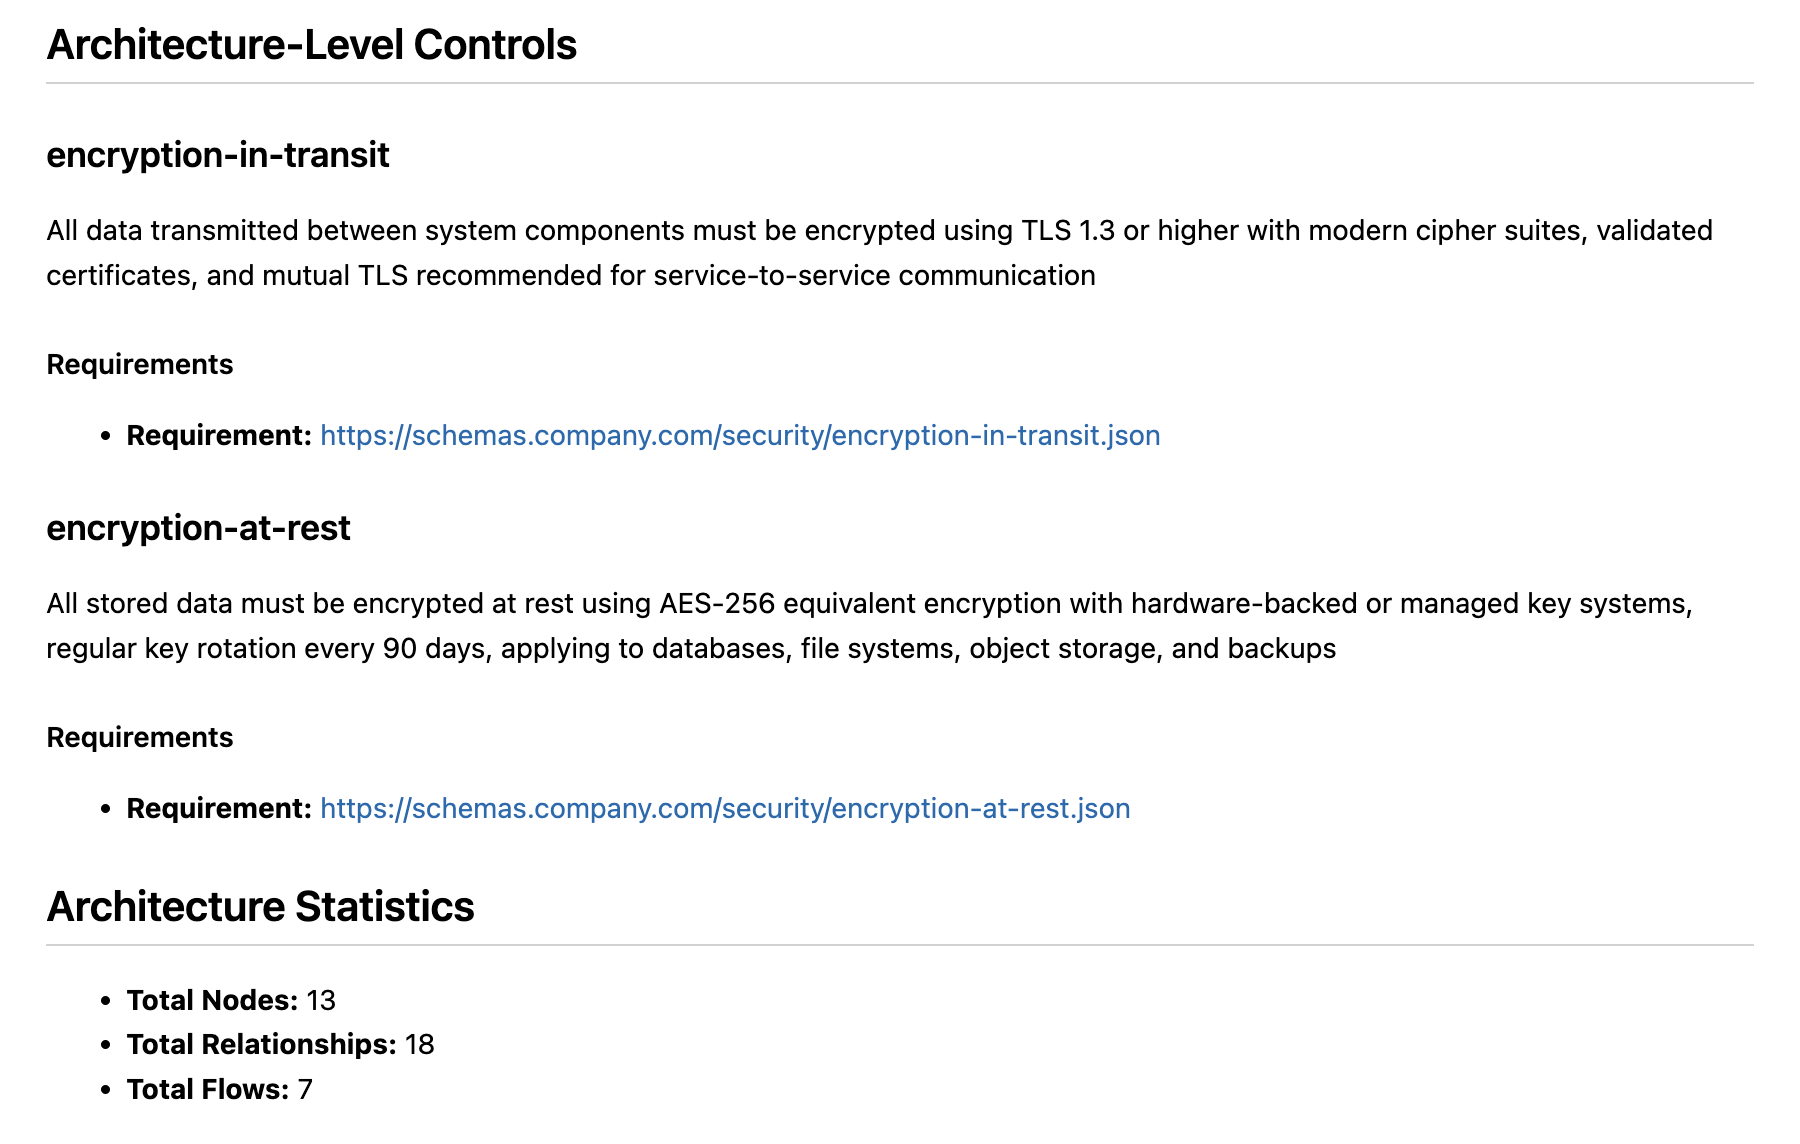
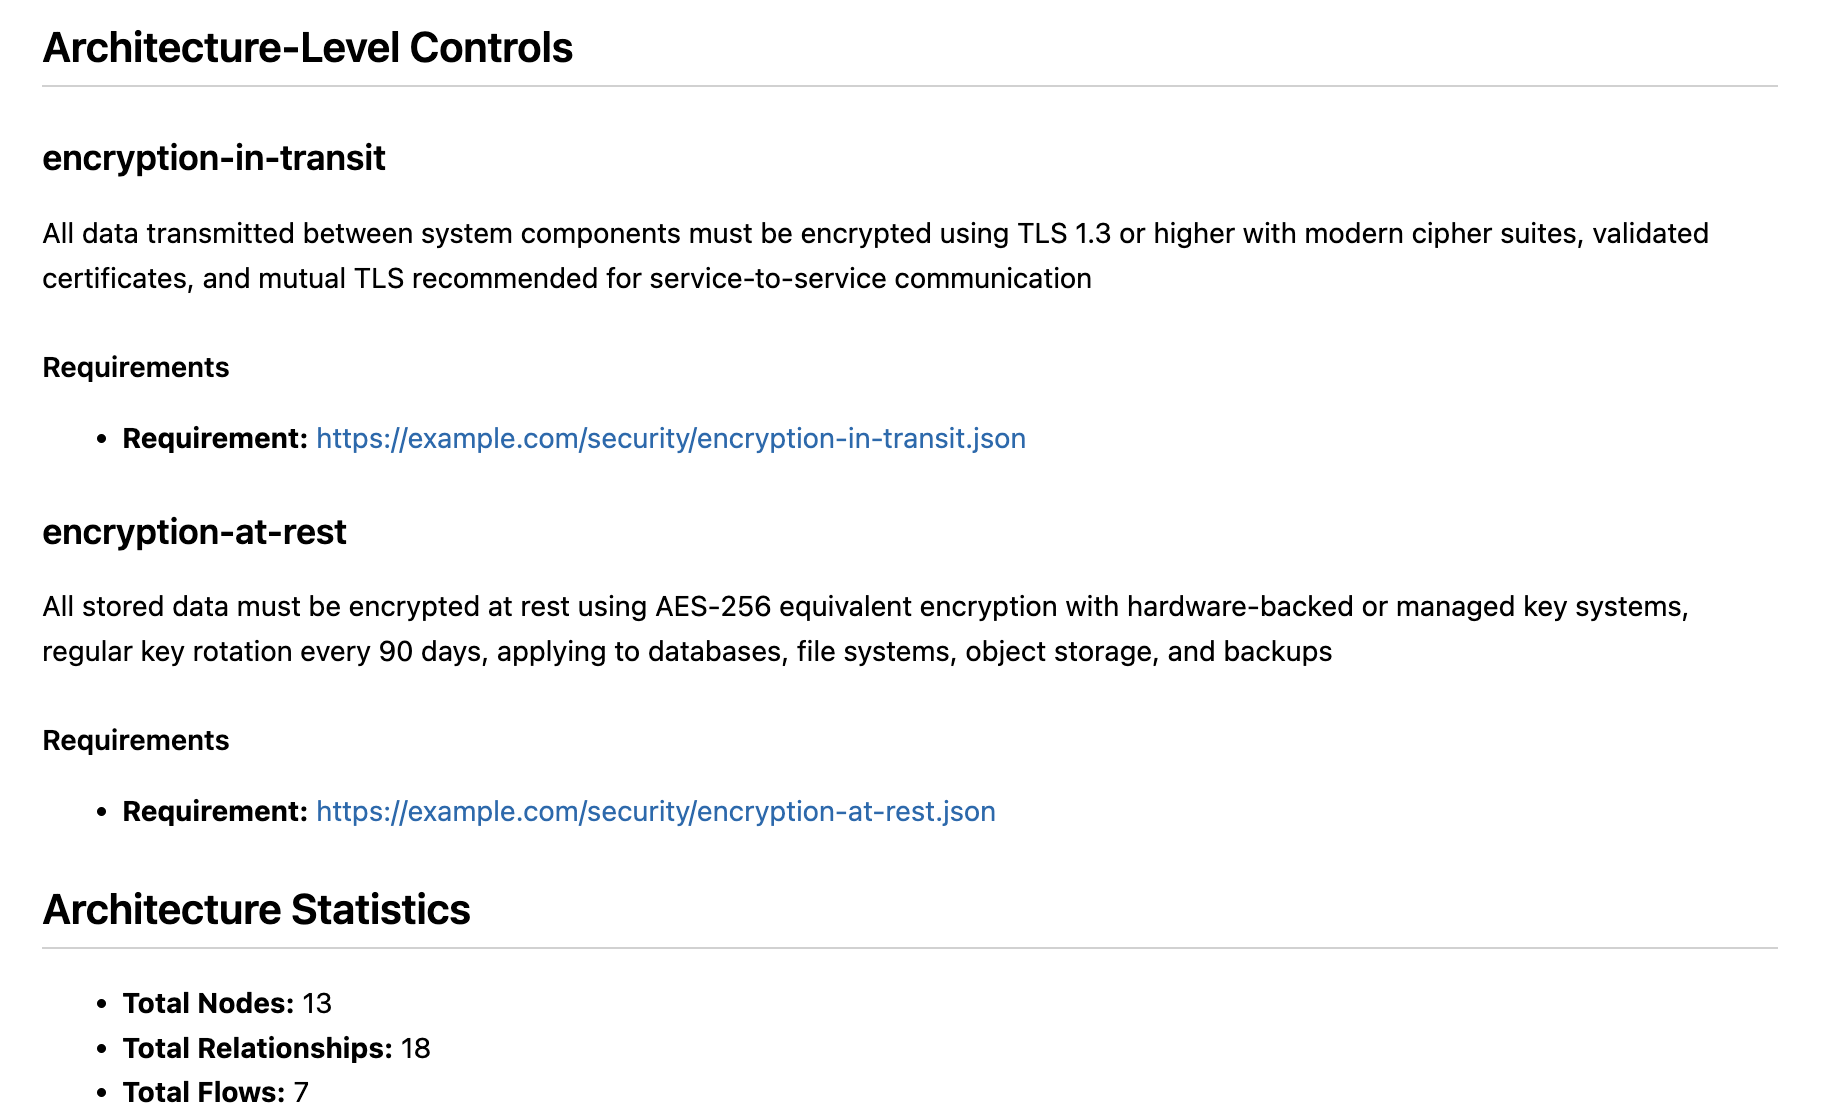
docs: Update schema references to v1.2 and replace example URLs in trading-system architecture JSON

diff --git a/docs/docs/tutorials/build-a-calm-architecture/generate-documentation.md b/docs/docs/tutorials/build-a-calm-architecture/generate-documentation.md
@@ -104,16 +104,16 @@ This should generate output similar to the following and create a file called `t
 ```text
 info [_TemplateProcessor]:     Using SelfProvidedTemplateLoader for single template file
 [WidgetEngine] ⚠ Helper 'lookup' is already registered. Skipping registration.
-info [_TemplateProcessor]:     ✅ Output directory exists: calm-demos/build-calm-architecture
+info [_TemplateProcessor]:     ✅ Output directory exists: /Users/jim/Desktop/calm-demos/build-calm-architecture
 warn [_TemplateProcessor]:     ⚠ Output directory is not empty. Any files not overwritten will remain untouched.
 info [_TemplateProcessor]:     ℹ No transformer specified in index.json. Will use TemplateDefaultTransformer.
 info [_TemplateProcessor]:     🔁 No transformer provided. Using TemplateDefaultTransformer.
-info [_HttpReferenceResolver]:     Fetching reference via HTTP: https://schemas.company.com/security/encryption-in-transit.json
-info [_CompositeReferenceResolver]:     HTTP resolution failed for https://schemas.company.com/security/encryption-in-transit.json with Error: HTTP request failed for https://schemas.company.com/security/encryption-in-transit.json: getaddrinfo ENOTFOUND schemas.company.com
-Failed to dereference Resolvable: https://schemas.company.com/security/encryption-in-transit.json Composite resolver: Unable to resolve reference https://schemas.company.com/security/encryption-in-transit.json
-info [_HttpReferenceResolver]:     Fetching reference via HTTP: https://schemas.company.com/security/encryption-at-rest.json
-info [_CompositeReferenceResolver]:     HTTP resolution failed for https://schemas.company.com/security/encryption-at-rest.json with Error: HTTP request failed for https://schemas.company.com/security/encryption-at-rest.json: getaddrinfo ENOTFOUND schemas.company.com
-Failed to dereference Resolvable: https://schemas.company.com/security/encryption-at-rest.json Composite resolver: Unable to resolve reference https://schemas.company.com/security/encryption-at-rest.json
+info [_HttpReferenceResolver]:     Fetching reference via HTTP: https://example.com/security/encryption-in-transit.json
+info [_CompositeReferenceResolver]:     HTTP resolution failed for https://example.com/security/encryption-in-transit.json with Error: HTTP request failed for https://example.com/security/encryption-in-transit.json: unable to get local issuer certificate
+Failed to dereference Resolvable: https://example.com/security/encryption-in-transit.json Composite resolver: Unable to resolve reference https://example.com/security/encryption-in-transit.json
+info [_HttpReferenceResolver]:     Fetching reference via HTTP: https://example.com/security/encryption-at-rest.json
+info [_CompositeReferenceResolver]:     HTTP resolution failed for https://example.com/security/encryption-at-rest.json with Error: HTTP request failed for https://example.com/security/encryption-at-rest.json: unable to get local issuer certificate
+Failed to dereference Resolvable: https://example.com/security/encryption-at-rest.json Composite resolver: Unable to resolve reference https://example.com/security/encryption-at-rest.json
 info [_TemplateEngine]:     ✅ Compiled 1 Templates
 info [_TemplateEngine]:     🔧 Registering Handlebars Helpers...
 info [_TemplateEngine]:     ✅ Registered helper: eq
@@ -127,12 +127,14 @@ info [_TemplateEngine]:     ✅ Registered helper: isArray
 info [_TemplateEngine]:     ✅ Registered helper: join
 info [_TemplateEngine]:     
 🔹 Starting Template Generation...
-info [_TemplateEngine]:     ✅ Generated: calm-demos/build-calm-architecture/trading-system-sad.md
+info [_TemplateEngine]:     ✅ Generated: /Users/jim/Desktop/calm-demos/build-calm-architecture/trading-system-sad.md
 info [_TemplateEngine]:     
 ✅ Template Generation Completed!
 info [_TemplateProcessor]:     
 ✅ Template Generation Completed!
 ```
+
+_Note_:  The "HTTP resolution failed ..." messages can be ignored because "example.com" is a reserved, safe-to-use domain name created by the IANA for documentation, testing, and educational purposes. It serves as a placeholder in tutorials and technical guides, allowing users to illustrate web addresses or email configurations without using real, active domains. It is not a real website.
 
 ---
 
